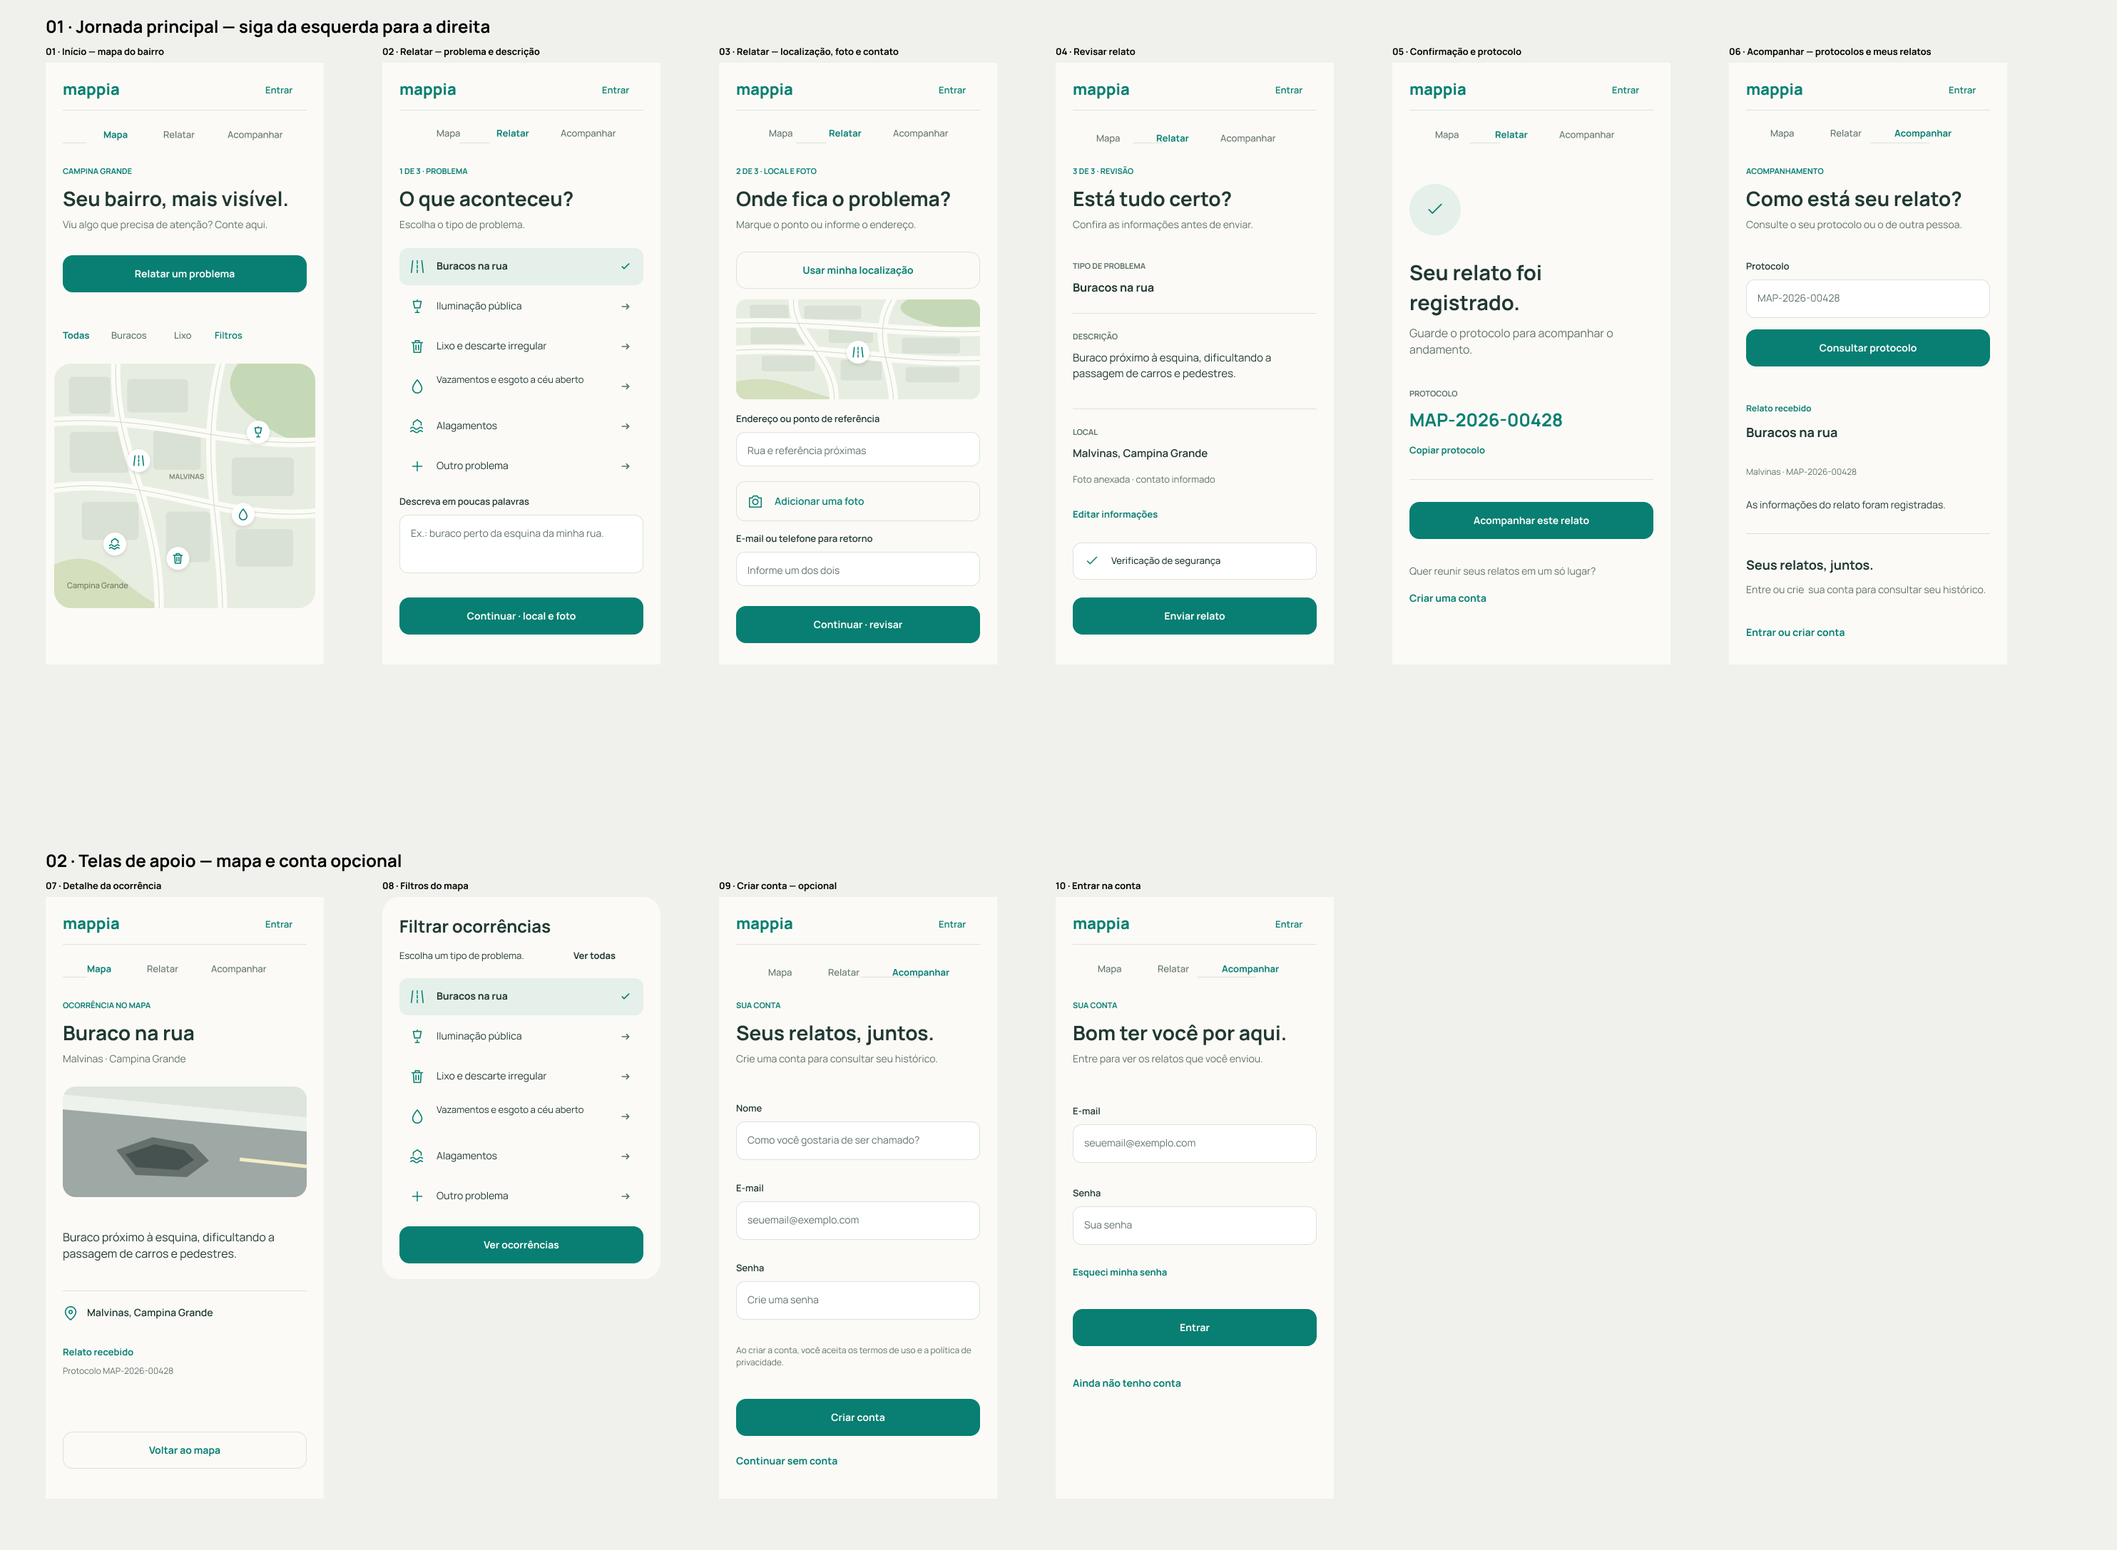
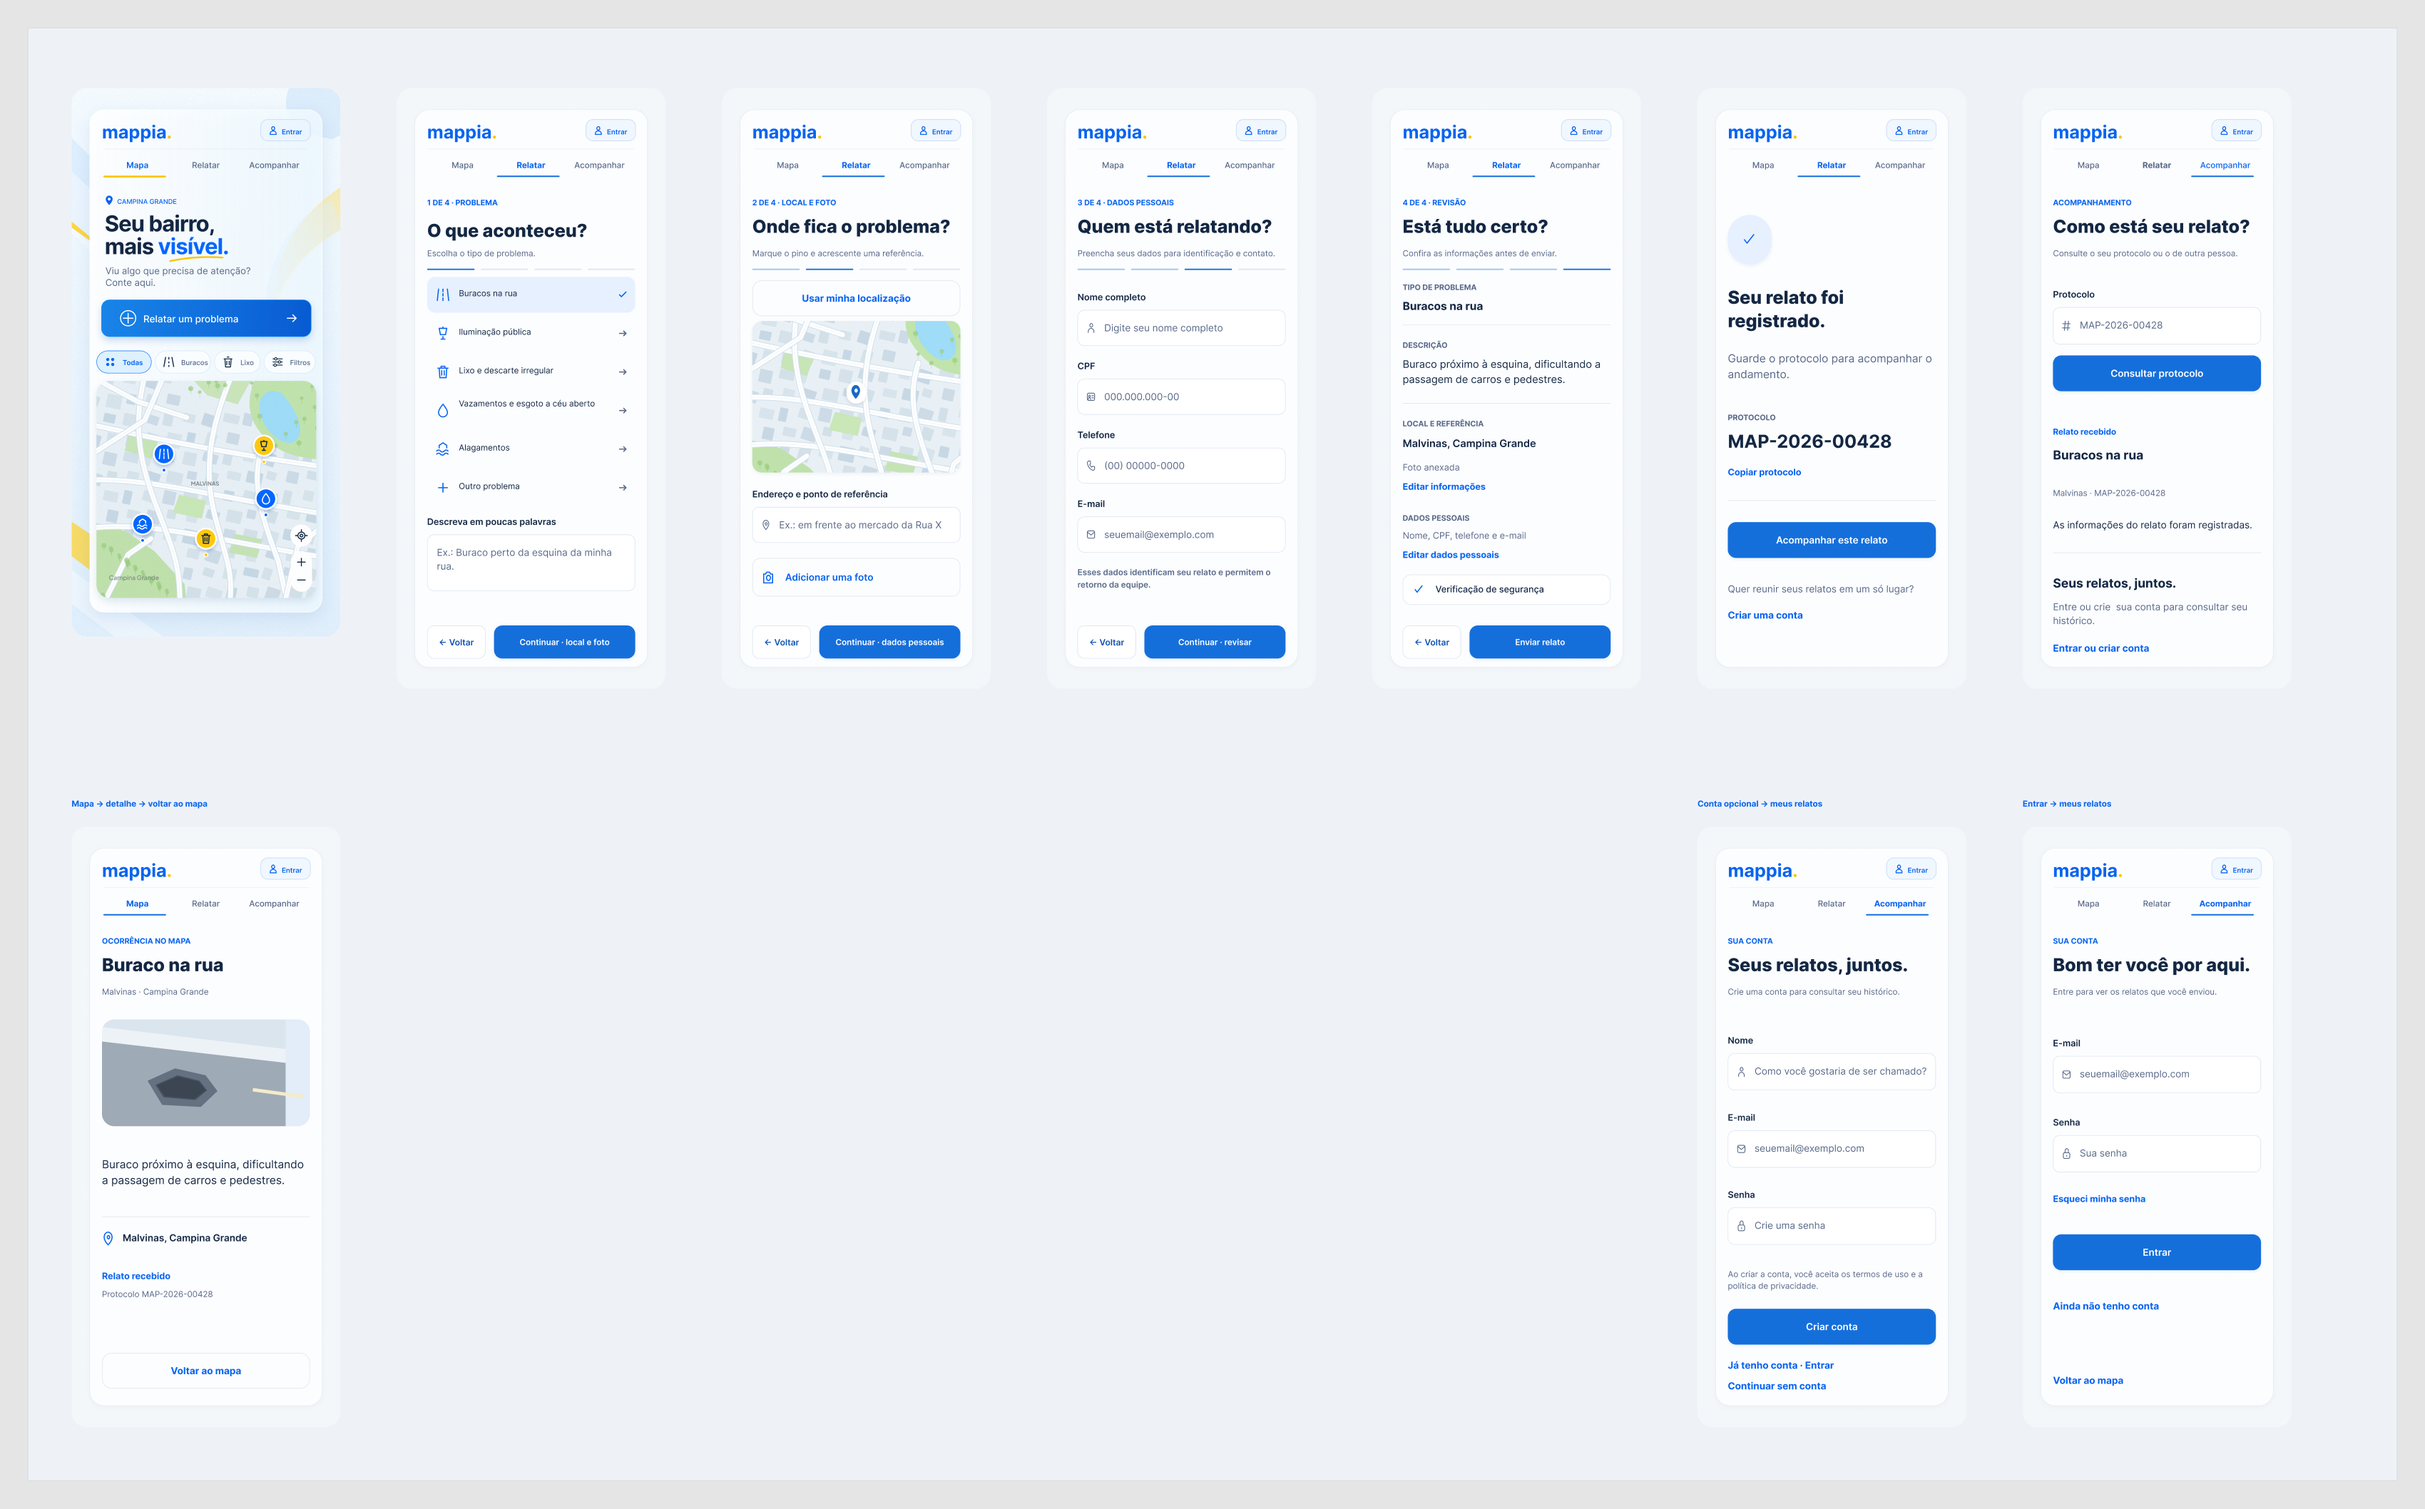
docs: atualiza jornada e telas do prototipo Mappia

diff --git a/docs/design/JORNADA.md b/docs/design/JORNADA.md
@@ -1,0 +1,53 @@
+# Jornada do usuário — Mappia
+
+Retrato do protótipo no Figma em **15/10/2026**. Este documento registra as telas e as conexões do protótipo, sem representar serviços de cadastro ou envio já implantados.
+
+- [Abrir o protótipo navegável](https://www.figma.com/proto/sXNaua5CmhShdvoC4J4upn/Mappia?node-id=2031-152&page-id=0%3A1&starting-point-node-id=2031%3A152&scaling=scale-down)
+- [Abrir o arquivo de design](https://www.figma.com/design/sXNaua5CmhShdvoC4J4upn/Mappia?node-id=2045-121)
+
+## Enviar e acompanhar um relato
+
+1. **Início / mapa:** selecionar “Relatar um problema”.
+2. **Problema — etapa 1 de 4:** escolher a categoria e descrever o problema. Voltar retorna ao mapa.
+3. **Local e foto — etapa 2 de 4:** marcar o pino, complementar com endereço ou ponto de referência e adicionar foto. Voltar retorna ao problema.
+4. **Dados pessoais — etapa 3 de 4:** informar nome completo, CPF, telefone e e-mail para identificação e contato. Esta etapa não cria uma conta. Voltar retorna ao local e foto.
+5. **Revisão — etapa 4 de 4:** conferir as informações e enviar. “Editar informações” retorna ao problema; “Editar dados pessoais” e “Voltar” retornam aos dados pessoais.
+6. **Confirmação:** consultar ou copiar o protocolo; acompanhar o relato ou optar por criar uma conta.
+7. **Acompanhamento:** consultar por protocolo sem conta ou entrar para acessar os relatos vinculados à conta.
+
+O acesso sem conta significa que não é necessário criar login e senha para relatar ou consultar um protocolo. O formulário atual possui uma etapa separada de identificação pessoal.
+
+## As três telas inferiores
+
+Essas telas são ramificações, não uma sequência obrigatória depois do acompanhamento.
+
+| Tela | Entrada na jornada | Ações e destino |
+| --- | --- | --- |
+| Detalhe da ocorrência | Selecionar uma ocorrência no mapa. | “Voltar ao mapa” retorna ao início; as abas mantêm acesso ao relato e ao acompanhamento. |
+| Criar conta — opcional | Convite após a confirmação ou “Ainda não tenho conta” na entrada. | “Criar conta” simula a sessão autenticada e abre o histórico; “Já tenho conta · Entrar” abre a entrada; “Continuar sem conta” abre o acompanhamento por protocolo. |
+| Entrar na conta | Cabeçalho ou “Entrar ou criar conta” no acompanhamento. | “Entrar” simula a sessão autenticada e abre o histórico; “Ainda não tenho conta” abre o cadastro; “Voltar ao mapa” retorna ao início. |
+
+O botão “Entrar” do cabeçalho possui conexão no texto, na superfície e no ícone das telas de origem. Na própria tela de entrada não há navegação para ela mesma.
+
+## Telas atuais
+
+| Ordem | Tela | Prévia | Nó no Figma |
+| --- | --- | --- | --- |
+| 01 | Início e mapa | [Imagem](telas/01-inicio.png) | `2031:152` |
+| 02 | Problema e descrição | [Imagem](telas/02-problema.png) | `2031:232` |
+| 03 | Local e foto | [Imagem](telas/03-local-e-foto.png) | `2031:285` |
+| 04 | Dados pessoais | [Imagem](telas/04-dados-pessoais.png) | `2086:38` |
+| 05 | Revisão | [Imagem](telas/05-revisao.png) | `2031:338` |
+| 06 | Confirmação e protocolo | [Imagem](telas/06-confirmacao.png) | `2031:366` |
+| 07 | Acompanhamento e histórico | [Imagem](telas/07-acompanhamento.png) | `2031:389` |
+| 08 | Detalhe da ocorrência | [Imagem](telas/08-detalhe.png) | `2031:201` |
+| 09 | Criar conta | [Imagem](telas/09-criar-conta.png) | `2031:414` |
+| 10 | Entrar | [Imagem](telas/10-entrar.png) | `2031:439` |
+
+![Visão geral da jornada atual](telas-organizadas.png)
+
+## Alcance desta atualização
+
+As imagens foram exportadas do arquivo atual do Figma. As conexões de avançar, voltar, detalhe, cadastro e entrada foram verificadas na estrutura do protótipo. Login, criação de conta, envio, geolocalização e anexos continuam sendo demonstrações. Os controles visuais de zoom e recuperação de senha não representam integrações funcionais.
+
+Os PDFs do PRD e do backlog mantêm a versão 3.0, de 02/10/2026. A jornada acima registra a evolução posterior do protótipo, incluindo a etapa de dados pessoais e a revisão visual.

diff --git a/README.md b/README.md
@@ -26,7 +26,14 @@ O Mappia propõe uma plataforma web para registrar e acompanhar problemas do bai
 - [Abrir a imagem em tamanho completo](docs/design/telas-organizadas.png)
 - [Navegar pelo protótipo no Figma](https://www.figma.com/proto/sXNaua5CmhShdvoC4J4upn/Mappia?node-id=2031-152&page-id=0%3A1&starting-point-node-id=2031%3A152&scaling=scale-down)
 
-A jornada principal segue da esquerda para a direita: início e mapa, descrição do problema, localização e foto, revisão, confirmação com protocolo e acompanhamento. Abaixo estão as telas de apoio: detalhe da ocorrência, filtros, criação de conta e entrada.
+A jornada principal segue da esquerda para a direita: início e mapa → problema e descrição → local e foto → dados pessoais → revisão → confirmação com protocolo → acompanhamento. O formulário tem quatro etapas, com opção de voltar em cada uma.
+
+As três telas inferiores são ramos da jornada: o detalhe da ocorrência fica abaixo do mapa; a criação de conta, abaixo da confirmação; e a entrada, abaixo do acompanhamento. Criar conta e entrar levam ao histórico. Continuar sem conta leva à consulta por protocolo, sem apresentar uma nova confirmação de envio.
+
+- [Jornada completa e conexões entre as telas](docs/design/JORNADA.md)
+- [Telas individuais do protótipo](docs/design/telas)
+
+Prévia atualizada em **15/10/2026**. A tela inicial concentra os elementos ilustrativos; as telas internas usam fundos neutros, títulos sem destaque por palavra e ações azuis discretas.
 
 As telas representam um protótipo em desenvolvimento. O envio de relatos, a localização, o anexo de fotos e a criação de conta são demonstrações; não há atendimento público integrado.
 
